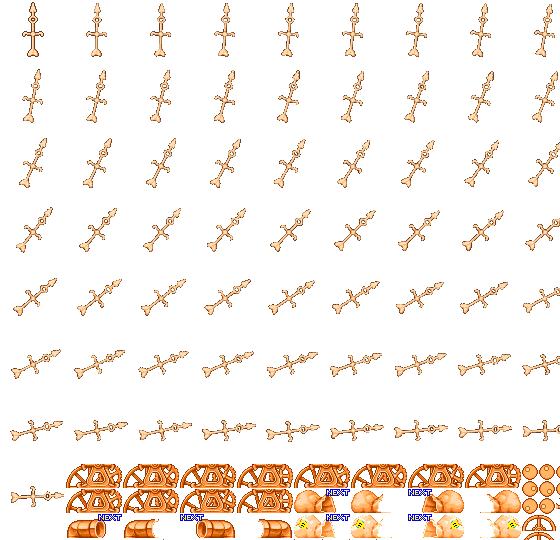
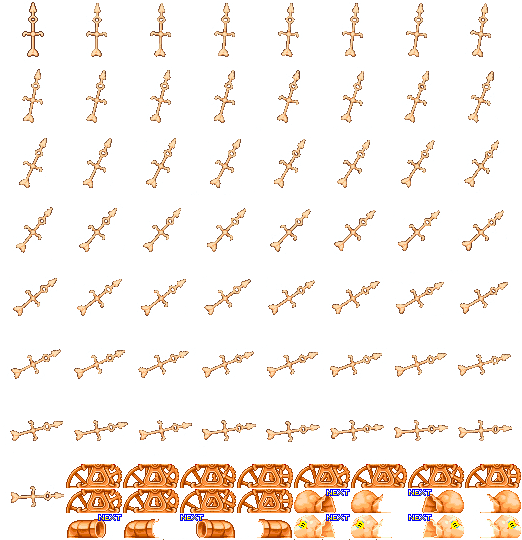
cambios 09/04/2020

diff --git a/Games/PuzzleBobble/src/scenes/scene_play.js b/Games/PuzzleBobble/src/scenes/scene_play.js
@@ -4,6 +4,26 @@ class Scene_play extends Phaser.Scene {
     }
 
     create() {
+        this.flecha = this.add.sprite(this.sys.game.config.width / 2, 500, 'flechas');
+        this.anims.create({
+            key: 'left',
+            frames: this.anims.generateFrameNumbers('dude', { start: 0, end: 57 }),
+            frameRate: 10,
+            repeat: -1
+        });
+        
+        this.anims.create({
+            key: 'turn',
+            frames: [ { key: 'dude', frame: 4 } ],
+            frameRate: 20
+        });
+        
+        this.anims.create({
+            key: 'right',
+            frames: this.anims.generateFrameNumbers('dude', { start: 5, end: 8 }),
+            frameRate: 10,
+            repeat: -1 
+        });
         var nivel;
         //comprueba en la variable global del init en que numero de nivel nos encontramos y coge del nivel(numero).js toda la informacion
         switch (numeronivel) {
@@ -45,7 +65,8 @@ class Scene_play extends Phaser.Scene {
         this.add.image(450, 300, nivel.fondo).setScale(3);
         this.add.image(this.sys.game.config.width / 2, 300, nivel.borde).setScale(3);
         // crea el array de todas las filas del nivel para guardar las referencias de las burbujas
-        var arrayburbujas = new Array([], [], [], [], [], [], [], [], [], [], []);
+        var arrayburbujas = new Array(this.crearfila(8), this.crearfila(7), this.crearfila(8), this.crearfila(7), this.crearfila(8), this.crearfila(7),
+            this.crearfila(8), this.crearfila(7), this.crearfila(8), this.crearfila(7), this.crearfila(8));
 
         let x = 0;
         let y = 0;
@@ -71,64 +92,111 @@ class Scene_play extends Phaser.Scene {
 
                 switch (nivel.burbuja[i][j]) {
                     case "Am":
-                        arrayburbujas[i][j] = new Burbuja(this, x, y, "burbujaAm","Am").setScale(3);
-                        console.log(arrayburbujas[i][j].name);
-                        // les pongo de name al objeto la inicial de su color , para saber su color
+                        arrayburbujas[i][j] = new Burbuja(this, x, y, "burbujaBl", "Am").setScale(3);
                         break;
                     case "Bl":
-                        arrayburbujas[i][j] = new Burbuja(this, x, y, "burbujaBl","Bl").setScale(3);
+                        arrayburbujas[i][j] = new Burbuja(this, x, y, "burbujaBl", "Bl").setScale(3);
                         break;
                     case "Gr":
-                        arrayburbujas[i][j] = new Burbuja(this, x, y, "burbujaGr","Gr").setScale(3);
+                        arrayburbujas[i][j] = new Burbuja(this, x, y, "burbujaGr", "Gr").setScale(3);
                         break;
                     case "Mo":
-                        arrayburbujas[i][j] = new Burbuja(this, x, y, "burbujaMo","Mo").setScale(3);
+                        arrayburbujas[i][j] = new Burbuja(this, x, y, "burbujaMo", "Mo").setScale(3);
                         break;
                     case "Na":
-                        arrayburbujas[i][j] = new Burbuja(this, x, y, "burbujaNa","Na").setScale(3);
+                        arrayburbujas[i][j] = new Burbuja(this, x, y, "burbujaNa", "Na").setScale(3);
                         break;
                     case "Ro":
-                        arrayburbujas[i][j] = new Burbuja(this, x, y, "burbujaRo","Ro").setScale(3);
+                        arrayburbujas[i][j] = new Burbuja(this, x, y, "burbujaRo", "Ro").setScale(3);
                         break;
                     case "Ve":
-                        arrayburbujas[i][j] = new Burbuja(this, x, y, "burbujaVe","Ve").setScale(3);
+                        arrayburbujas[i][j] = new Burbuja(this, x, y, "burbujaVe", "Ve").setScale(3);
                         break;
                     case "Az":
-                        arrayburbujas[i][j] = new Burbuja(this, x, y, "burbujaAz","Az").setScale(3);
+                        arrayburbujas[i][j] = new Burbuja(this, x, y, "burbujaAz", "Az").setScale(3);
                         break;
                     default:
                         arrayburbujas[i][j] = " ";
                         break;
-                } 
+                }
             }
         }
-        // repasar apartir de aqui hay errores
-        let iniciallanzarbola = this.crearbolalanzar(arrayburbujas);
-        this.lanzarbola = new Burbuja(this, this.sys.game.config.width / 2, 525, "burbuja" + iniciallanzarbola,iniciallanzarbola ).setScale(3);
-        arrayburbujas[1][1] = this.lanzarbola;
-        console.log(arrayburbujas[1][1].name);
-        this.lanzarbolasegunda = new Burbuja(this, this.sys.game.config.width / 2.2, 600, "burbuja" + this.crearbolalanzar(arrayburbujas) ).setScale(3);
+        // se crean las dos bolas de lanzar
+        this.lanzarbola = this.crearbolalanzar(arrayburbujas,this.sys.game.config.width / 2, 525);
+        console.log(this.lanzarbola);
+        this.lanzarbolasegunda = this.crearbolalanzar(arrayburbujas,this.sys.game.config.width / 2.4,600);
+        console.log(arrayburbujas);
+        this.cursor_space = this.input.keyboard.addKey(Phaser.Input.Keyboard.KeyCodes.SPACE);
     }
 
-    // sin terminar
-    crearbolalanzar(arrayburbujas) {
+    // crea un array con 7 o 8 sitios
+    crearfila(numero) {
+        if (numero == 7) {
+            return [" ", " ", " ", " ", " ", " ", " "];
+        } else if (numero == 8) {
+            return [" ", " ", " ", " ", " ", " ", " ", " "];
+        }
+    }
+
+
+    // mira todo el array de burbujas y devuelve un array con los colores que tiene el array
+    colorbolanueva(arrayburbujas) {
         let arrayburbujaslanzar = new Array();
         for (let i = 0; i < arrayburbujas.length; i++) {
             for (let j = 0; j < arrayburbujas[i].length; j++) {
-                if(!arrayburbujaslanzar.includes(arrayburbujas[i][j].name) && arrayburbujas[i][j] != " ") {
+                if (!arrayburbujaslanzar.includes(arrayburbujas[i][j].name) && arrayburbujas[i][j] != " ") {
                     arrayburbujaslanzar.push(arrayburbujas[i][j].name);
-                }else {
-                    if(arrayburbujaslanzar.length == 8) {
+                } else {
+                    if (arrayburbujaslanzar.length == 8) {
                         break;
                     }
                 }
             }
         }
-        let posicion  = Math.floor(Math.random() * (arrayburbujaslanzar.length - 0)) + 0;
+        let posicion = Math.floor(Math.random() * (arrayburbujaslanzar.length - 0)) + 0;
         return arrayburbujaslanzar[posicion];
     }
 
+
+    // crea una nueva bola con el color que le pasa colorbolanueva
+    crearbolalanzar(arrayburbujas,x,y) {
+        let colorlanzar = this.colorbolanueva(arrayburbujas);
+        return new BurbujaMovil(this, x , y, "burbuja" + colorlanzar, colorlanzar).setScale(3);
+        this.annadircolisionburbujas(arrayburbujas);
+    }
+
+
+    annadircolisionburbujas(arrayburbujas) {
+        for (let i = 0; i < arrayburbujas.length; i++) {
+            for (let j = 0; j < arrayburbujas[i].length; j++) {
+                if (arrayburbujas[i][j] != " ") {
+                    this.physics.add.collider(this.lanzarbola, arrayburbujas[i][j], this.colisionPelotas, null, this);
+
+                }
+            }
+        }
+    }
+    colisionPelotaBorde() {
+        console.log("ayuda");
+        //this.lanzarbola.body.velocity.set(-110,-120);
+    }
+    colisionPelotas() {
+        console.log("siiii");
+    }
     update() {
+        var valorx;
+        if (this.cursor_space.isDown) {
+            this.lanzarbola.body.velocity.set(-110,-10);
+            console.log(this.lanzarbola.velocity);
+            valorx = -this.lanzarbola.body.velocity.x;
+        }
+        if(this.lanzarbola.x < this.sys.game.config.width / 3.2) {
+            console.log(this.lanzarbola.body.velocity.get());
+            this.lanzarbola.body.velocity.set(100, this.lanzarbola.body.velocity.y);
+            
+        }else if(this.lanzarbola.x > this.sys.game.config.width / 3.2 + 335) {
+            this.lanzarbola.body.velocity.set(valorx ,this.lanzarbola.body.velocity.y);
+        } 
         //this.scene.restart();
     }
 }

diff --git a/Games/PuzzleBobble/src/scenes/inicio.js b/Games/PuzzleBobble/src/scenes/inicio.js
@@ -1,5 +1,5 @@
 //se muestra una imagen inicial del juego, la cual tendremos que cambiar,para empezar el juego hay que
-//pulsar el espacio y te mueve a Scene_play
+//pulsar la s y te mueve a Scene_play
 class Inicio extends Phaser.Scene {
     constructor() {
         super({ key: "Inicio" })
@@ -7,11 +7,11 @@ class Inicio extends Phaser.Scene {
 
     create() {
         this.add.image(450, 300, 'inicio').setScale(0.6);
-        this.cursor_space = this.input.keyboard.addKey(Phaser.Input.Keyboard.KeyCodes.SPACE);
+        this.cursor_S = this.input.keyboard.addKey(Phaser.Input.Keyboard.KeyCodes.S);
     }
 
     update() {
-        if (this.cursor_space.isDown) {
+        if (this.cursor_S.isDown) {
             this.scene.start("Scene_play");
         }
 

diff --git a/Games/PuzzleBobble/src/js/bootloader.js b/Games/PuzzleBobble/src/js/bootloader.js
@@ -17,6 +17,7 @@ class Bootloader extends Phaser.Scene {
         this.load.image("burbujaNa", "./assets/images/bolas/bolanaranja.png");
         this.load.image("burbujaRo", "./assets/images/bolas/bolaroja.png");
         this.load.image("burbujaVe", "./assets/images/bolas/bolaverde.png");
+        this.load.image("flechas", "./assets/images/flechas/flechas.png");
         this.load.image("inicio", "./assets/images/pantallainicial/titulo.jpg");
         this.load.image("fondo1-3", "./assets/images/Backgrounds/Background 1-3.png");
         this.load.image("fondo4-6", "./assets/images/Backgrounds/Background 4-6.png");

diff --git a/Games/PuzzleBobble/src/gameObjects/burbujamovil.js b/Games/PuzzleBobble/src/gameObjects/burbujamovil.js
@@ -1,0 +1,12 @@
+class BurbujaMovil extends Phaser.GameObjects.Sprite {
+    constructor(scene, x, y, type,name) {
+        super(scene, x, y, type);
+        scene.add.existing(this);
+        scene.physics.world.enableBody(this);
+        this.body.immovable = true;
+        this.body.setCollideWorldBounds(true);
+        this.name = name;
+        //this.body.bounce.set(1);
+        //this.body.velocity.set(-180);
+    }
+}

diff --git a/Games/PuzzleBobble/index.html b/Games/PuzzleBobble/index.html
@@ -37,6 +37,7 @@
     <script src="src/scenes/Inicio.js"></script>
     <script src="src/scenes/Scene_play.js"></script>
     <script src="src/gameObjects/burbuja.js"></script>
+    <script src="src/gameObjects/burbujamovil.js"></script>
     <script src="src/niveles/niveles.js"></script>
 
     <script src="src/js/init.js"></script>
